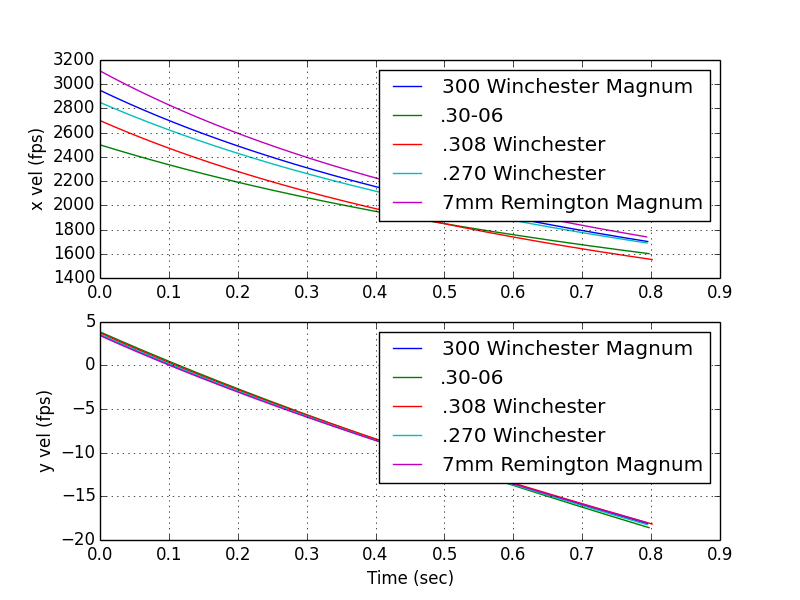
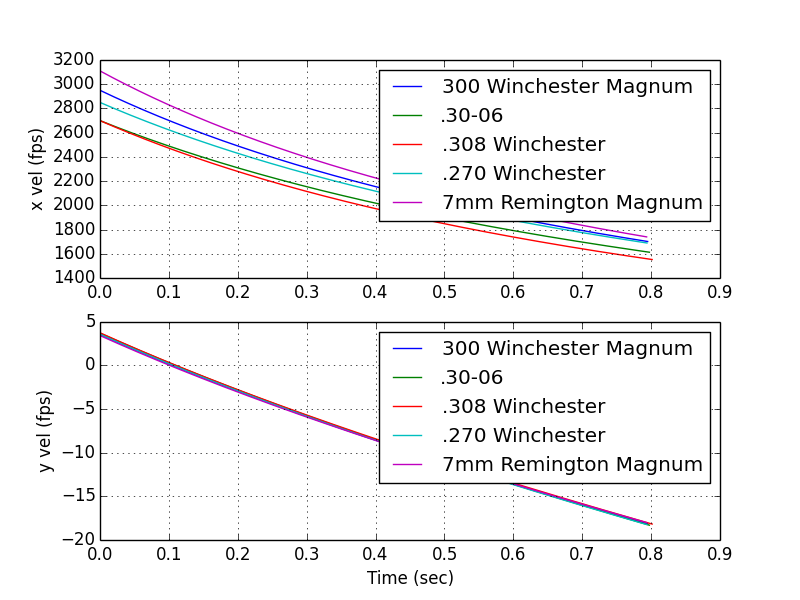
Changed .30-06 definition.

diff --git a/ballistics.py b/ballistics.py
@@ -1,5 +1,5 @@
 from numpy import *
-from scipy.optimize import fmin
+from scipy.optimize import fmin, newton
 
 class Ballistics( object ) :
 
@@ -226,8 +226,8 @@ class Bullet30_06( Ballistics ) :
     name = '.30-06'
     cal = .308   # in inches
     A = pi*(cal*Ballistics.in2m)**2/4
-    MV = 2500*Ballistics.ft2m
-    m = 200*Ballistics.grain2kg
+    MV = 2700*Ballistics.ft2m
+    m = 180*Ballistics.grain2kg  # 150, 180 fairly common
 
 class Bullet300WinMag( Ballistics ) :
     name = '300 Winchester Magnum'
@@ -251,7 +251,7 @@ class Bullet308Winchester( Ballistics ) :
     cal = .308
     A = pi*(cal*Ballistics.in2m)**2/4
     MV = 2700*Ballistics.ft2m
-    m = 165*Ballistics.grain2kg
+    m = 165*Ballistics.grain2kg  # could go lighter
 
 class Bullet270Winchester( Ballistics ) :
     name = ".270 Winchester"
